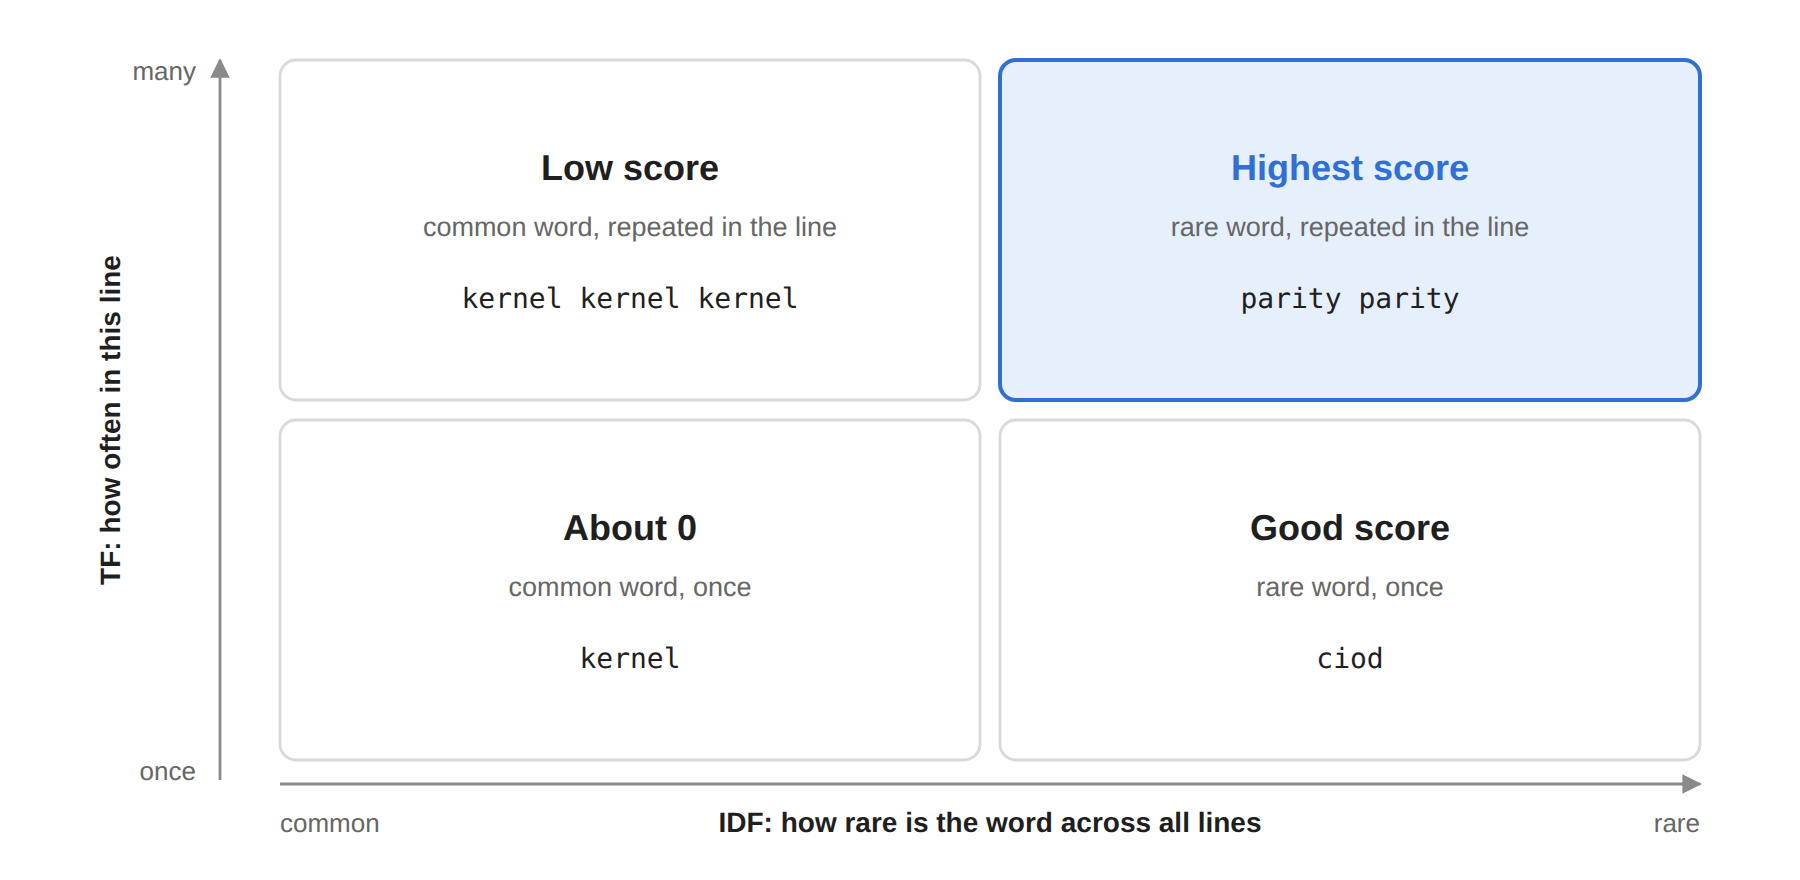
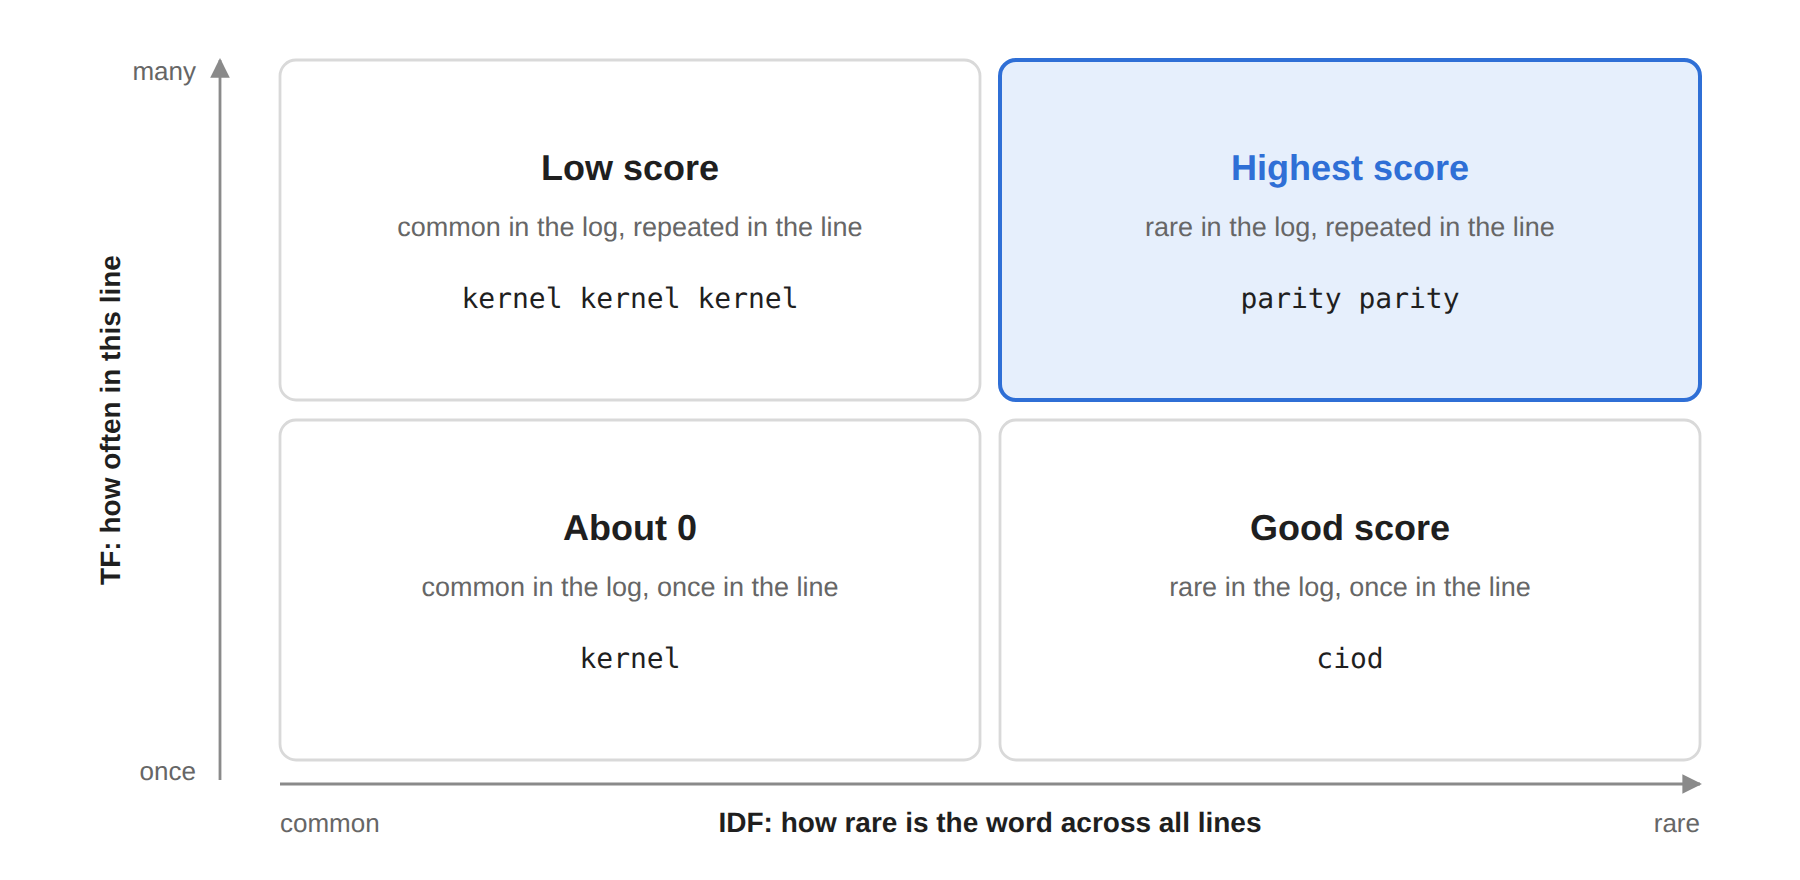
blogs 6: explain df with a diagram, clarify tf/idf labels

diff --git a/content/blog/blog_006/index.md b/content/blog/blog_006/index.md
@@ -90,13 +90,19 @@ We divide by the line length so that a long line does not win just because it ha
 
 ## 3.3 IDF: how rare across all lines
 
-![blog_006](images/08-idf.png)
+First we need **DF** (document frequency): **in how many lines does the word appear?** We do not count how many times the word is written, only how many lines have it. A line that contains the word twice still counts once.
 
-**DF** (document frequency) is the number of lines that contain the word. **IDF** turns it into "how rare", with `N` the total number of lines:
+![blog_006](images/25-df-concept.png)
+
+Then **IDF** turns DF into "how rare", with `N` the total number of lines:
 
 ```text
 idf(term) = ln(N / df(term))
 ```
+
+A word in every line gets `ln(N / N) = 0`. A word in only one line gets the highest idf:
+
+![blog_006](images/08-idf.png)
 
 `ln` keeps the numbers small: a word 1,000 times rarer scores higher, but not 1,000 times higher. On our real 1 million lines:
 
